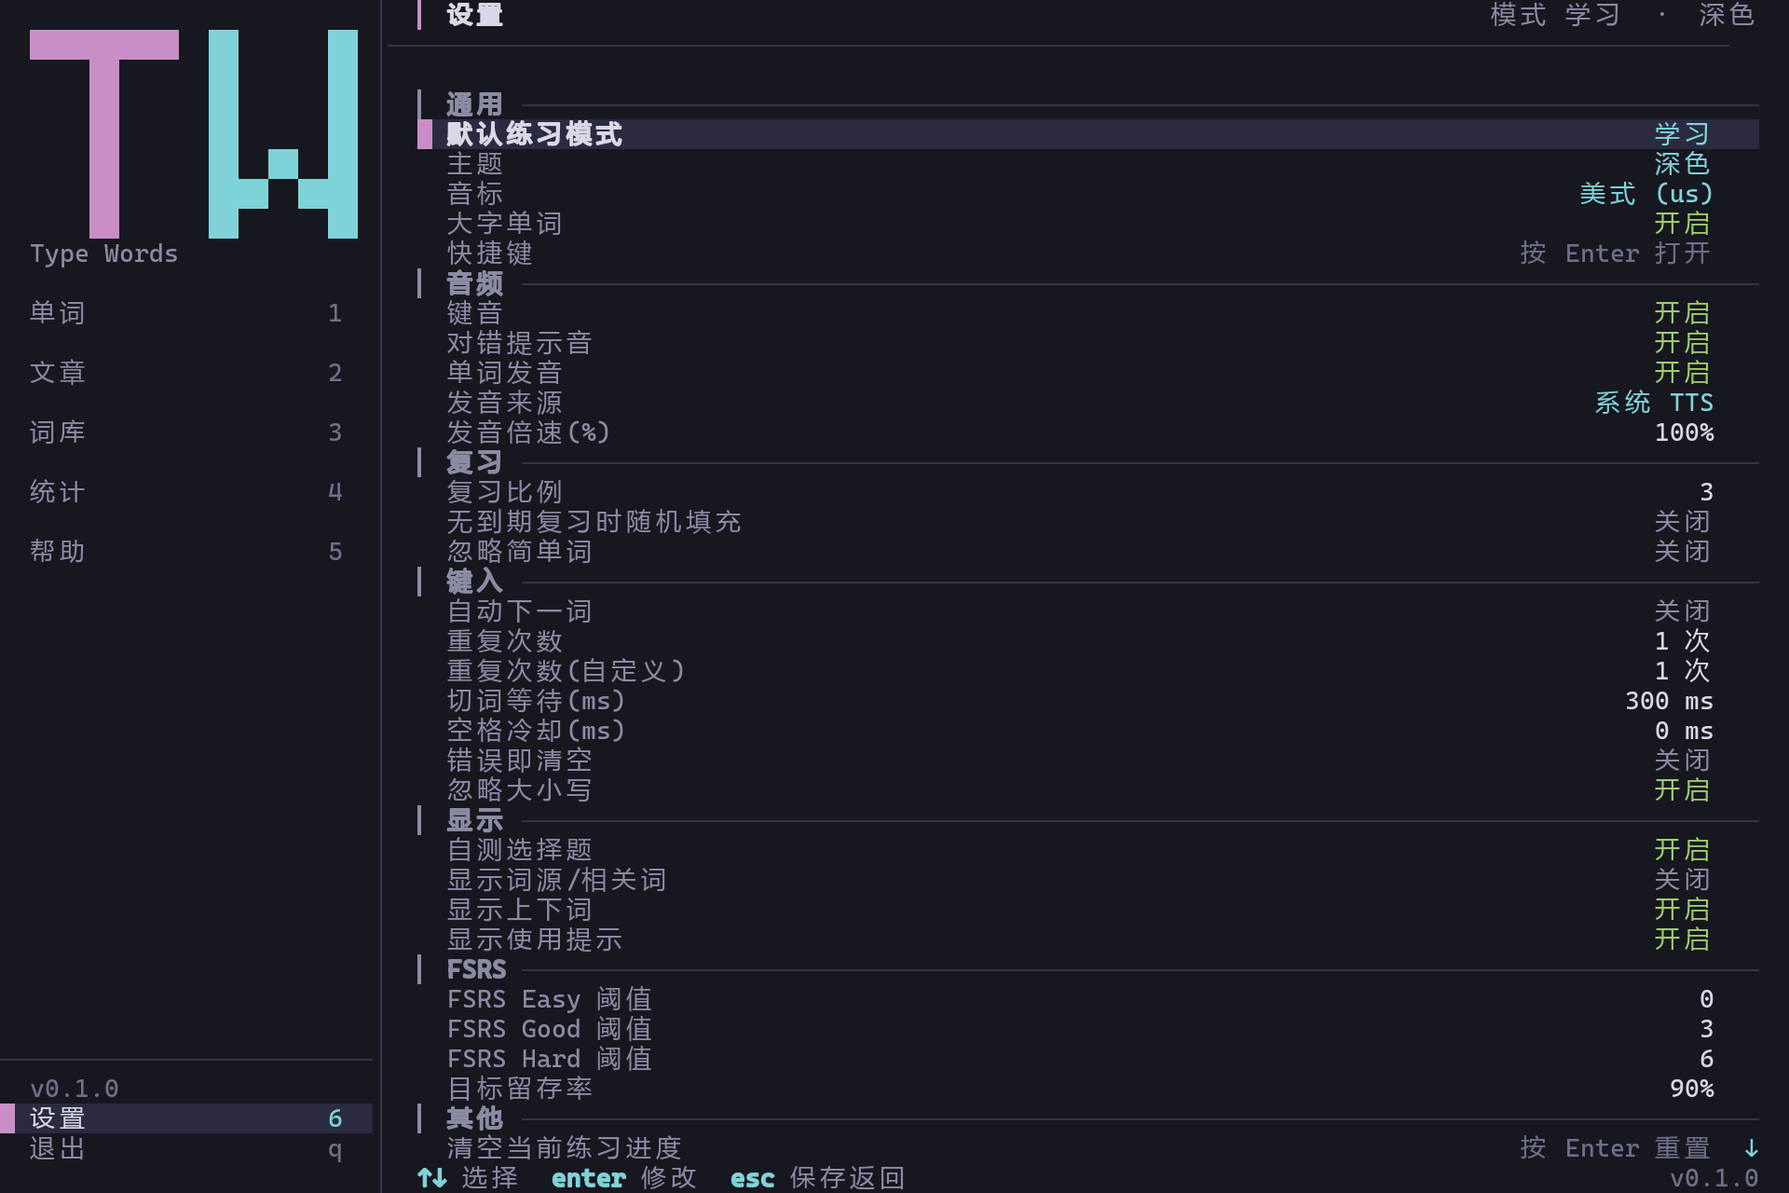
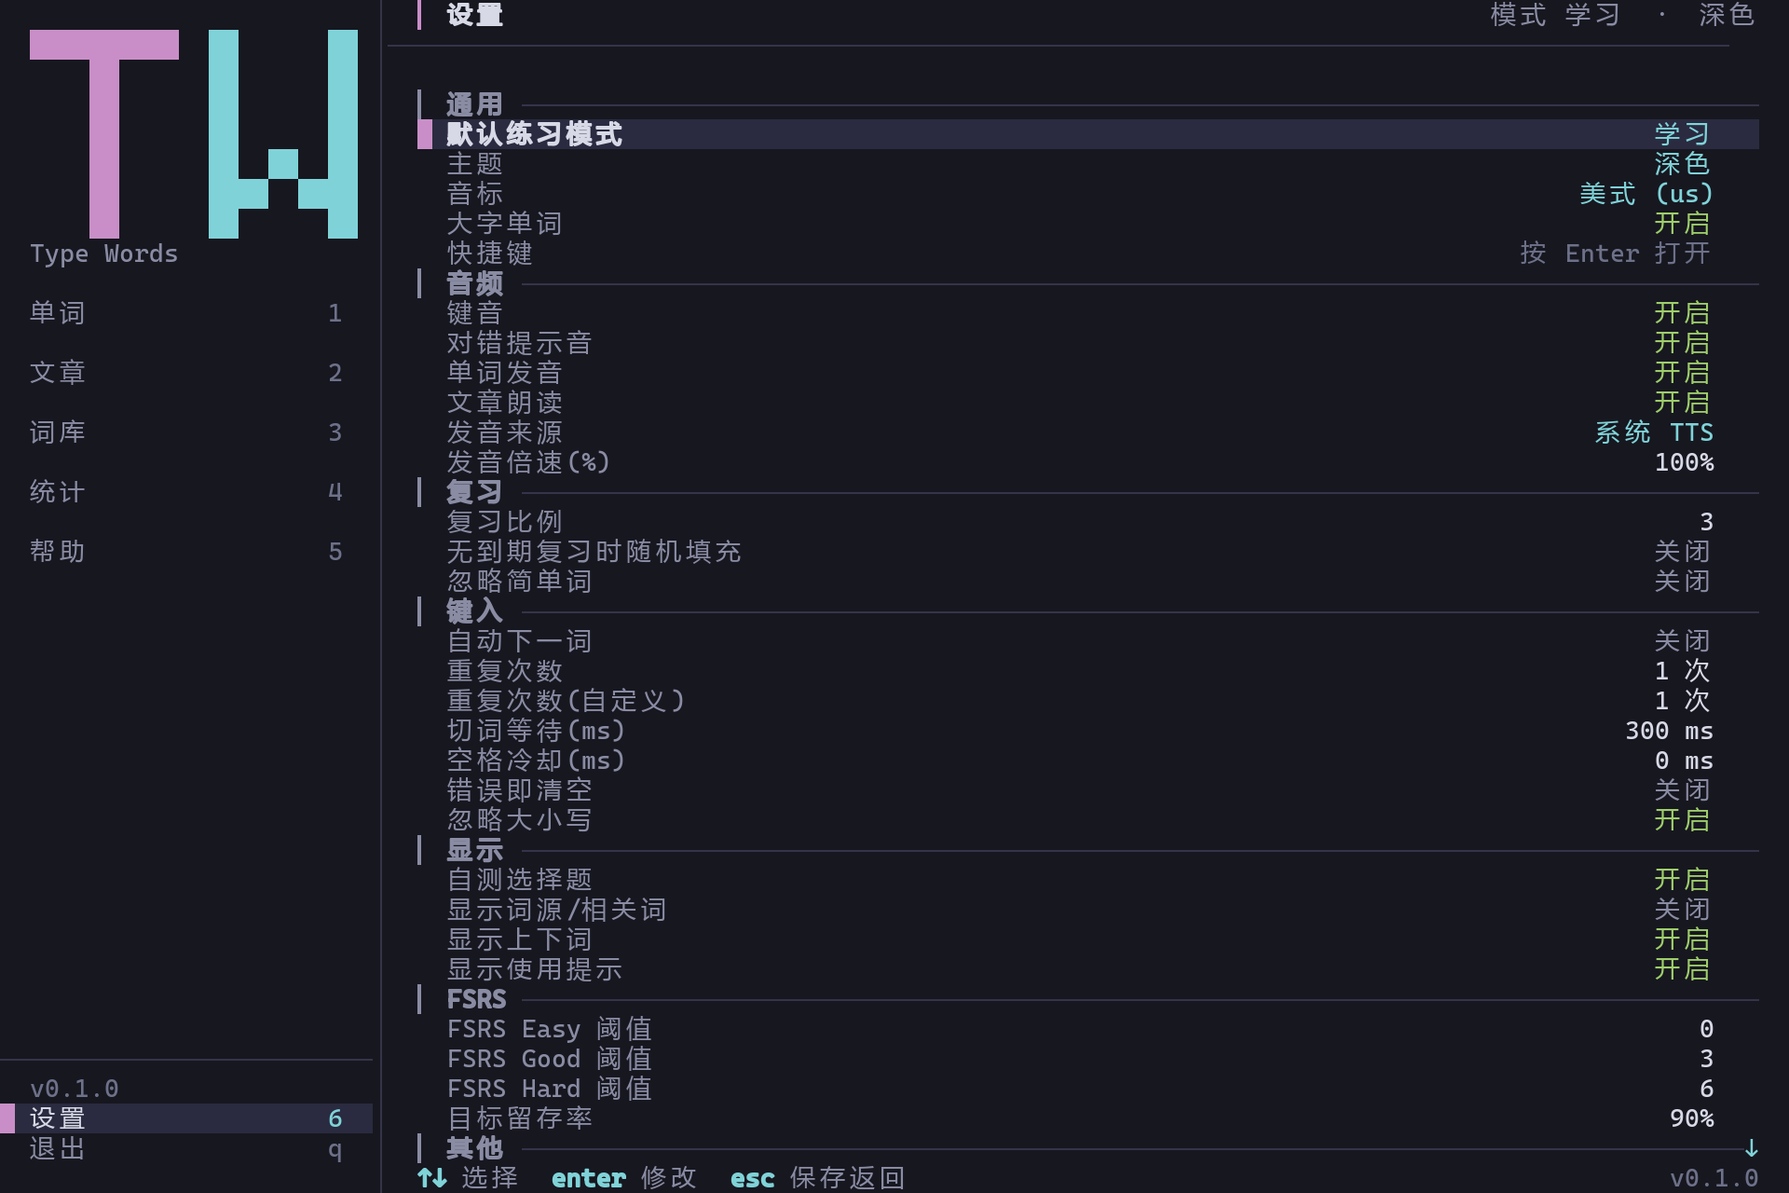
feat(settings): 设置页新增「文章朗读」开关
`article_sound` 一直有字段且默认开启，但没有 UI 入口，用户无法关掉逐句
朗读（Windows 上即每次朗读启动一个隐藏 PowerShell 会话）。

SETTING_ROWS 音频分区补 `article_sound` 行，并接通 toggle_setting_bool、
setting_bool 与 i18n 文案；默认值与上游一致，仍为开启。

同步文档口径：31 行设置 = 29 个配置项 + 2 个动作项、音频 6 行、设置页
渲染 38 行；settings.md 补上「音频」详解与常驻会话说明，usage.md 补文章
朗读说明与「安全软件弹隐藏 PowerShell」排障项，architecture.md 更新音频
层与平台 API 描述；按 development.md 重新生成设置页截图。

diff --git a/tests/app_drive.rs b/tests/app_drive.rs
@@ -1102,6 +1102,10 @@ fn audio_settings_toggle_and_persist() {
     press(&mut app, KeyCode::Enter);
     assert!(!app.boot.settings.word_sound, "单词发音应被关闭");
 
+    goto_setting(&mut app, "article_sound");
+    press(&mut app, KeyCode::Enter);
+    assert!(!app.boot.settings.article_sound, "文章朗读应被关闭");
+
     goto_setting(&mut app, "tts_source");
     press(&mut app, KeyCode::Enter);
     assert_eq!(app.boot.settings.tts_source, "youdao", "应切到有道发音");
@@ -1110,6 +1114,7 @@ fn audio_settings_toggle_and_persist() {
     let reloaded = app::build_for_test(paths, fixture.cli()).unwrap();
     assert!(!reloaded.boot.settings.keyboard_sound);
     assert!(!reloaded.boot.settings.word_sound);
+    assert!(!reloaded.boot.settings.article_sound);
     assert_eq!(reloaded.boot.settings.tts_source, "youdao");
 }
 

diff --git a/src/app/mod.rs b/src/app/mod.rs
@@ -212,6 +212,7 @@ pub const SETTING_ROWS: &[(&str, SettingKind)] = &[
     ("keyboard_sound", SettingKind::Bool),
     ("effect_sound", SettingKind::Bool),
     ("word_sound", SettingKind::Bool),
+    ("article_sound", SettingKind::Bool),
     ("tts_source", SettingKind::AudioSource),
     (
         "word_sound_speed",
@@ -3174,6 +3175,7 @@ impl App {
             "keyboard_sound" => settings.keyboard_sound = !settings.keyboard_sound,
             "effect_sound" => settings.effect_sound = !settings.effect_sound,
             "word_sound" => settings.word_sound = !settings.word_sound,
+            "article_sound" => settings.article_sound = !settings.article_sound,
             _ => {}
         }
     }

diff --git a/tests/ui_snapshots.rs b/tests/ui_snapshots.rs
@@ -184,6 +184,12 @@ fn settings_rows_follow_their_documented_sections() {
         audio < row_of("单词发音") && row_of("单词发音") < review,
         "单词发音应在音频分区"
     );
+    assert!(
+        audio < row_of("文章朗读")
+            && row_of("单词发音") < row_of("文章朗读")
+            && row_of("文章朗读") < review,
+        "文章朗读应在音频分区，且排在单词发音之后"
+    );
 }
 
 #[test]

diff --git a/src/domain/i18n.rs b/src/domain/i18n.rs
@@ -121,6 +121,7 @@ pub fn tr(key: &str) -> String {
         "keyboard_sound" => "键音",
         "effect_sound" => "对错提示音",
         "word_sound" => "单词发音",
+        "article_sound" => "文章朗读",
         "tts_source" => "发音来源",
         "word_sound_speed" => "发音倍速(%)",
         "show_word_question" => "自测选择题",

diff --git a/src/ui/settings.rs b/src/ui/settings.rs
@@ -290,6 +290,7 @@ fn setting_bool(app: &App, key: &str) -> bool {
         "keyboard_sound" => settings.keyboard_sound,
         "effect_sound" => settings.effect_sound,
         "word_sound" => settings.word_sound,
+        "article_sound" => settings.article_sound,
         _ => false,
     }
 }

diff --git a/docs/settings.md b/docs/settings.md
@@ -1,10 +1,10 @@
 # 设置项参考
 
-本文是 `setting.json` 与设置页的权威参考：文件在哪、何时保存、30 行设置各自的分区 / 默认值 / 取值范围 / 生效方式，以及只有配置文件里才有的 FSRS 参数和仍不支持的字段。设置页的操作步骤见 [使用手册 · 设置](usage.md#设置)，存档格式、版本与备份见 [存档与数据格式](persistence.md)。
+本文是 `setting.json` 与设置页的权威参考：文件在哪、何时保存、31 行设置各自的分区 / 默认值 / 取值范围 / 生效方式，以及只有配置文件里才有的 FSRS 参数和仍不支持的字段。设置页的操作步骤见 [使用手册 · 设置](usage.md#设置)，存档格式、版本与备份见 [存档与数据格式](persistence.md)。
 
 设置页由 `src/app/mod.rs` 的 `SETTING_ROWS` 定义、`src/ui/settings.rs` 渲染；默认值定义在 `src/domain/types.rs` 的 `SettingState::default`。本文所有数值都以这两处与 `src/domain/constants.rs` 为准。
 
-> 适用范围：设置页全部 30 行、`setting.json` 可读写字段、FSRS 参数与手工修改；对应版本：typewords-tui 0.1.0。
+> 适用范围：设置页全部 31 行、`setting.json` 可读写字段、FSRS 参数与手工修改；对应版本：typewords-tui 0.1.0。
 
 ## 设置文件与保存时机
 
@@ -21,7 +21,7 @@
 - **修改与返回**：`Enter` / 空格修改——开关类直接切换；模式 / 主题 / 音标循环；数字类弹输入框（只接受 ASCII 数字与 `Backspace`，最多 6 位，留空按 0 解析后按范围收敛，`Enter` 保存、`Esc` 取消）；「清空当前练习进度」与「清除所有数据」弹确认；`Esc` / `q` 保存并回主页。
 
 - **恢复默认只有整体入口**：设置页没有单项重置；「清除所有数据」会把全部设置连同学习记录一起恢复默认（见下文「清除所有数据」）。想只重置某一项，只能删除或手工编辑 `setting.json`（删除后下次启动使用 `SettingState::default`）。
-- **分区与顺序**：通用（5 行）→ 音频（5 行）→ 复习（3 行）→ 键入（7 行）→ 显示（4 行）→ FSRS（4 行）→ 其他（2 行），共 30 行 = 28 个配置项 + 2 个动作项。
+- **分区与顺序**：通用（5 行）→ 音频（6 行）→ 复习（3 行）→ 键入（7 行）→ 显示（4 行）→ FSRS（4 行）→ 其他（2 行），共 31 行 = 29 个配置项 + 2 个动作项。
 
 ## 分区总表
 
@@ -37,6 +37,7 @@
 | 音频 | `keyboardSound`（`keyboard_sound` 行） | 键音 | 布尔 | 开启 | 开启 / 关闭 | 每次敲键响一声（终端响铃）；立即生效 |
 | 音频 | `effectSound`（`effect_sound` 行） | 对错提示音 | 布尔 | 开启 | 开启 / 关闭 | 答对 / 答错各响一声；立即生效 |
 | 音频 | `wordSound`（`word_sound` 行） | 单词发音 | 布尔 | 开启 | 开启 / 关闭 | 用系统 TTS 朗读当前词；立即生效 |
+| 音频 | `articleSound`（`article_sound` 行） | 文章朗读 | 布尔 | 开启 | 开启 / 关闭 | 文章跟打每完成一句自动朗读下一句；关闭后自动朗读与文章页 `Ctrl+P` 都不再触发 TTS；立即生效 |
 | 音频 | `ttsSource`（`tts_source` 行） | 发音来源 | 枚举 | 系统 TTS | 系统 TTS / 有道发音 | 有道发音需要网络，失败自动降级回系统 TTS；立即生效 |
 | 音频 | `wordSoundSpeed`（`word_sound_speed` 行） | 发音倍速 | 整数 % | 100 | 50~300 | 朗读语速；立即生效 |
 | 复习 | `word_review_ratio` | 复习比例 | 整数 | 3 | 0~10 | 复习上限 = 每日词数 × 比例；0 表示平时不抽到期复习（词库学完或末组时仍按 1 处理）；下次生成任务生效 |
@@ -69,6 +70,14 @@
 - 主题一行按 `auto` → 深色 → 浅色 → 高对比 → 自定义主题（按文件名排序）循环；`auto` 渲染为「自动（深色）」；自定义主题的新增与修改需要重启进程。主题格式见 [主题系统](themes.md)。
 - 音标只影响练习页音标行（`Word::phonetic`：英式取 `phonetic0`，美式取 `phonetic1`），不影响出题、判分或复习调度。
 - 「大字单词」只控制练习页 5×7 点阵是否允许 2 倍像素放大；关闭后仍显示 1 倍点阵。即使开启，窗口正文高 < 20 行或本轮最长单词放不下时也会自动用 1 倍。
+
+### 音频
+
+- **键音 / 对错提示音**：都走终端响铃（BEL），音色由终端决定，设置里的音量字段不参与。
+- **单词发音**：练习页按 `Ctrl+P`（键位可在快捷键页改绑）朗读当前词；关闭「单词发音」后该键不再出声。
+- **文章朗读**：文章跟打每完成一句自动朗读下一句，默认开启；关闭后自动朗读与文章页的 `Ctrl+P` 都不再触发 TTS。
+- **系统 TTS 的实现**：Windows 上由一个常驻 PowerShell 会话（`System.Speech`）承担，首次朗读时启动、之后复用同一个进程，退出程序时随 stdin 关闭而结束。若该进程被安全软件（如「系统加固 / 敏感动作防护」里的「隐藏执行 PowerShell」规则）拦截，本次运行后续朗读会静默放弃、不再重试，重启程序后恢复；需要朗读时请在安全软件里对 `tw.exe` 放行一次。
+- **发音来源**只影响单词发音：切成「有道发音」时会先尝试下载 mp3，失败自动降级回系统 TTS；文章句子始终走系统 TTS。
 
 ### 复习比例与随机填充
 
@@ -191,13 +200,13 @@
 
 | 类别 | 字段 |
 | --- | --- |
-| 有 UI 且生效（22 项） | `word_practice_mode`、`theme`、`sound_type`、`tui_big_word`、`shortcut_key_map`、`word_review_ratio`、`auto_add_random_review_when_no_due`、`ignore_simple_word`、`auto_next_word`、`repeat_count`、`wait_time_for_change_word`、`space_cooldown_time`、`input_wrong_clear`、`ignore_case`、`show_word_question`、`show_etymology_and_rel_words`、`show_near_word`、`show_usage_tips`、`fsrs_easy_limit`、`fsrs_good_limit`、`fsrs_hard_limit`、`fsrsParameters.request_retention` |
+| 有 UI 且生效（28 项） | `word_practice_mode`、`theme`、`sound_type`、`tui_big_word`、`shortcut_key_map`、`word_review_ratio`、`auto_add_random_review_when_no_due`、`ignore_simple_word`、`auto_next_word`、`repeat_count`、`wait_time_for_change_word`、`space_cooldown_time`、`input_wrong_clear`、`ignore_case`、`show_word_question`、`show_etymology_and_rel_words`、`show_near_word`、`show_usage_tips`、`keyboardSound`（`keyboard_sound` 行）、`effectSound`（`effect_sound` 行）、`wordSound`（`word_sound` 行）、`articleSound`（`article_sound` 行）、`ttsSource`（`tts_source` 行）、`wordSoundSpeed`（`word_sound_speed` 行）、`fsrs_easy_limit`、`fsrs_good_limit`、`fsrs_hard_limit`、`fsrsParameters.request_retention` |
 | 有 UI、条件生效 | `repeat_custom_count`（仅 `repeat_count == 100` 时参与计算） |
 | 无 UI、但内部会读取 | `fsrsParameters.maximum_interval`、`fsrsParameters.w`、`fsrsParameters.enable_fuzz`、`fsrsParameters.enable_short_term`、`fsrsParameters.learning_steps`、`fsrsParameters.relearning_steps` |
 | 无 UI、当前不读取（只保存） | `word_practice_type`、`always_show_note`、`dictation`、`translate`、`ignore_symbol`、`_ignoreWatch` |
 | 透传保留 | `extra`：`SettingState` 未建模的 Web 字段都原样保存在这里，保存时写回 |
 
-`SettingState` 共建模 43 个具名字段 + `extra`，设置页覆盖其中 28 个配置项（外加 2 个动作项：清空练习进度、清除所有数据；快捷键页是独立入口）。兼容策略是 `#[serde(default)]` + `#[serde(flatten)] extra`：旧文件缺字段用默认值，未知字段原样保留（`tests/store_roundtrip.rs` 验证了 `someFutureField` 往返不丢失）；字段类型不匹配或枚举值非法则会解析失败并触发损坏隔离。
+`SettingState` 共建模 43 个具名字段 + `extra`，设置页覆盖其中 29 个配置项（外加 2 个动作项：清空练习进度、清除所有数据；快捷键页是独立入口）。兼容策略是 `#[serde(default)]` + `#[serde(flatten)] extra`：旧文件缺字段用默认值，未知字段原样保留（`tests/store_roundtrip.rs` 验证了 `someFutureField` 往返不丢失）；字段类型不匹配或枚举值非法则会解析失败并触发损坏隔离。
 
 ## 未生效 / 半生效设置项清单
 

diff --git a/docs/usage.md b/docs/usage.md
@@ -243,7 +243,7 @@ tw --seed 42 --reset-practice       # 复现问题时清掉断点缓存
 
 - 已输入的字是绿色，当前待输入的字高亮，输错的字标红；`Backspace` 可以退格改正。
 - 输完整句自动进入下一句，下方同时显示中文译文供对照。
-- `Ctrl+P` 用系统 TTS 朗读当前句，`Esc` 返回。
+- 每完成一句会自动朗读下一句（设置页「音频 → 文章朗读」控制，默认开启）；`Ctrl+P` 可随时用系统 TTS 朗读当前句，`Esc` 返回。
 - 全部句子完成后给结算，并把用时、正确率与文章标题写进当前词典的学习记录。
 
 **断点续学**：跟打中途按 `Esc` 返回或直接退出程序，句子进度与用时会存进 `practice-article.json`；下次进文章页会自动跳回上次那句继续。整篇练完后缓存自动清除。
@@ -526,7 +526,7 @@ tw --seed 42 --reset-practice       # 复现问题时清掉断点缓存
 - **保存时机**：每次修改立即写入 `setting.json`；`Esc` / `q` 返回主页时再保存一次。
 - **清空当前练习进度**：删掉 `practice-word.json` 与 `practice-article.json`（两个断点缓存），学习记录与设置不变。
 - **清除所有数据**：`dict.json` 与 `setting.json` 一起恢复默认，并删掉断点缓存——统计记录、FSRS 卡片、错词 / 收藏 / 已掌握、词典选择、练习进度与全部设置都归零（**不可撤销**，清完会重新选一本学习词典）。与上游 Web 的「设置 → 数据 → 清除所有数据」一致；只重置单项设置仍需退出程序后手工编辑 `setting.json`。
-- 设置页共 30 行（28 个配置项 + 2 个动作项），按「通用 / 音频 / 复习 / 键入 / 显示 / FSRS / 其他」分区；每项的配置键、默认值、取值范围、生效方式，以及无 UI 的透传字段，见 [设置项参考](settings.md)。
+- 设置页共 31 行（29 个配置项 + 2 个动作项），按「通用 / 音频 / 复习 / 键入 / 显示 / FSRS / 其他」分区；每项的配置键、默认值、取值范围、生效方式，以及无 UI 的透传字段，见 [设置项参考](settings.md)。
 
 ## 主题
 
@@ -578,6 +578,7 @@ tw --seed 42 --reset-practice       # 复现问题时清掉断点缓存
 | 提示「没有可学习的单词！」 | 没有新词且没有到期复习（全部学完或标记已掌握） | 换词库、取消已掌握标记、开启「无到期复习时随机填充」，或用随机复习 / 自由练习 |
 | 自定义主题没生效 / 启动有主题告警 | 主题文件名、JSON 字段、颜色写法或保留名不合规 | `tw doctor` 查看主题 id 与告警；修改后需重启进程 |
 | 听写没有声音 | 听写阶段按设计只给音标与释义 | 需要发音可在练习页按 `Ctrl+P` 朗读当前词，或在设置页「音频」分区开启 |
+| 文章跟打时安全软件弹「隐藏执行 PowerShell」 | 系统 TTS 在 Windows 上通过 PowerShell 调 `System.Speech`；安全软件的「系统加固 / 敏感动作防护」会把脚本引擎的创建当成敏感动作 | 在设置页「音频」分区关闭「文章朗读」，或对 `tw.exe` 放行一次并记住；程序已改为整个运行期只维持一个 TTS 进程，不会再每句都弹 |
 | 某项设置改了没效果 | 该项只保存不生效，或生效时机未到 | 查 [设置项参考](settings.md) 的「未生效 / 半生效」清单与生效时机 |
 | 每日词数调不动 | 已到 1 ~ 词库总词数的边界，或当前词库未加载 | 词库页先「设为当前」；范围受词库词数限制 |
 | 练习进度没保存 | 进程被强杀，防抖保存尚未落盘 | 正常退出（确认退出或 `Ctrl+C`）会立即保存；重启后最多丢失约 0.5 秒内的推进 |

diff --git a/docs/app.md b/docs/app.md
@@ -80,12 +80,12 @@
 
 ### 2.4 设置表与 `SettingKind`
 
-`SETTING_ROWS` 是设置页唯一数据源，共 30 行（28 个配置项 + 2 个动作项），数组顺序即渲染顺序。
+`SETTING_ROWS` 是设置页唯一数据源，共 31 行（29 个配置项 + 2 个动作项），数组顺序即渲染顺序。
 
 | `SettingKind` | `SETTING_ROWS` 中的 key（按出现顺序） |
 | --- | --- |
 | `Mode` / `Theme` / `SoundType` / `AudioSource` | `word_practice_mode` / `theme` / `sound_type` / `tts_source` |
-| `Bool` | `big_word`、`keyboard_sound`、`effect_sound`、`word_sound`、`auto_random_review`、`ignore_simple_word`、`auto_next_word`、`input_wrong_clear`、`ignore_case`、`show_word_question`、`show_etymology`、`show_near_word`、`show_usage_tips` |
+| `Bool` | `big_word`、`keyboard_sound`、`effect_sound`、`word_sound`、`article_sound`、`auto_random_review`、`ignore_simple_word`、`auto_next_word`、`input_wrong_clear`、`ignore_case`、`show_word_question`、`show_etymology`、`show_near_word`、`show_usage_tips` |
 | `Number` | `word_review_ratio`→`Ratio`、`repeat_count`→`Repeat`、`repeat_custom_count`→`RepeatCustom`、`wait_time`→`WaitMs`、`space_cooldown`→`SpaceCooldown`、`fsrs_easy_limit`→`EasyLimit`、`fsrs_good_limit`→`GoodLimit`、`fsrs_hard_limit`→`HardLimit`、`request_retention`→`Retention` |
 | `Shortcuts` / `Action(ConfirmAction)` | `shortcut_settings`（跳到快捷键编辑页）、`reset_practice_progress`→`ResetPractice`、`clear_all_data`→`ClearAllData` |
 

diff --git a/docs/ui.md b/docs/ui.md
@@ -251,7 +251,7 @@ ui::render(app, frame)
 
 ### 8.3 设置页（settings.rs）
 
-- 7 个分区标题（通用/音频/复习/键入/显示/FSRS/其他）+ 30 行设置项 = 37 行；分区标题是「▎ 标题 ────」样式的整行。`layout` 先保证光标行可见，再尽量把光标所在分区的标题一起滚入视口；顶部/底部溢出时在内容区最右列画 `↑`/`↓`。
+- 7 个分区标题（通用/音频/复习/键入/显示/FSRS/其他）+ 31 行设置项 = 38 行；分区标题是「▎ 标题 ────」样式的整行。`layout` 先保证光标行可见，再尽量把光标所在分区的标题一起滚入视口；顶部/底部溢出时在内容区最右列画 `↑`/`↓`。
 - 每行「标签 + 右对齐当前值」：选中行 `selection` 背景 + 左侧 1 列 `accent`；值的颜色按类型区分（模式/主题/音标 `accent_alt`，布尔开 `good` 关 `muted`，数字 `fg`，「按 Enter 重置」`dim`）。数字值的格式化：比例裸数字、重复「N 次」、等待/冷却「N ms」、FSRS 阈值裸数字、留存率「N%」。
 - 数字项按 `Enter` 后不就地编辑，而是打开 `ui/overlays.rs` 的输入弹层（见第 10 节）；设置页布局本身不变。
 - `targets`：只给设置项行生成（分区标题不可点）；光标行 `ActivateSetting(index)`，其它行 `SelectSetting(index)`。截图见 [设置页](screenshots/settings-120x40-dark.png)。

diff --git a/README.md b/README.md
@@ -131,7 +131,7 @@ tw task     # 只预览今日任务，不进入界面
 | 文档 | 内容 |
 | --- | --- |
 | [使用手册](docs/usage.md) | 安装、终端要求、CLI、界面导览、练习流程、按键、鼠标、FAQ 与排障 |
-| [设置项参考](docs/settings.md) | 设置页 24 行的默认值、取值范围、作用；FSRS 参数与无 UI 的透传字段 |
+| [设置项参考](docs/settings.md) | 设置页 31 行的默认值、取值范围、作用；FSRS 参数与无 UI 的透传字段 |
 | [主题系统](docs/themes.md) | 13 个颜色 token、内置主题、自定义主题格式与校验规则 |
 | [存档与数据格式](docs/persistence.md) | 数据目录、三份存档与资源 JSON、版本策略、与 Web 数据互通 |
 | [总体架构](docs/architecture.md) | 技术栈、分层与依赖约束、启动/事件循环、数据流、设计决策、技术债 |
